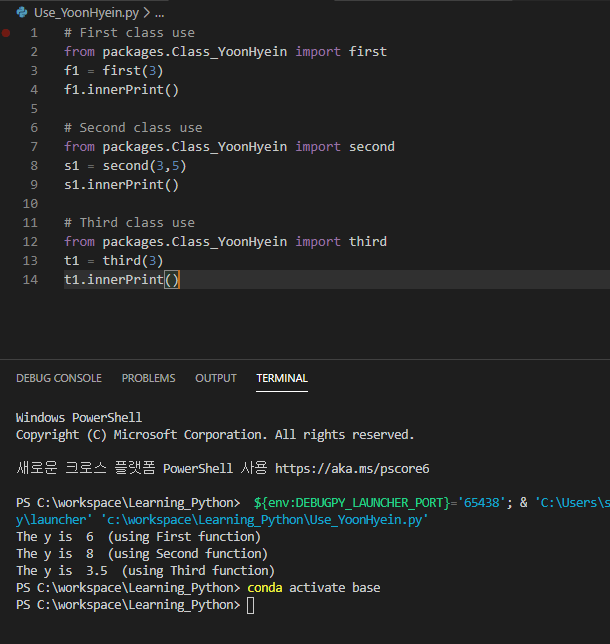
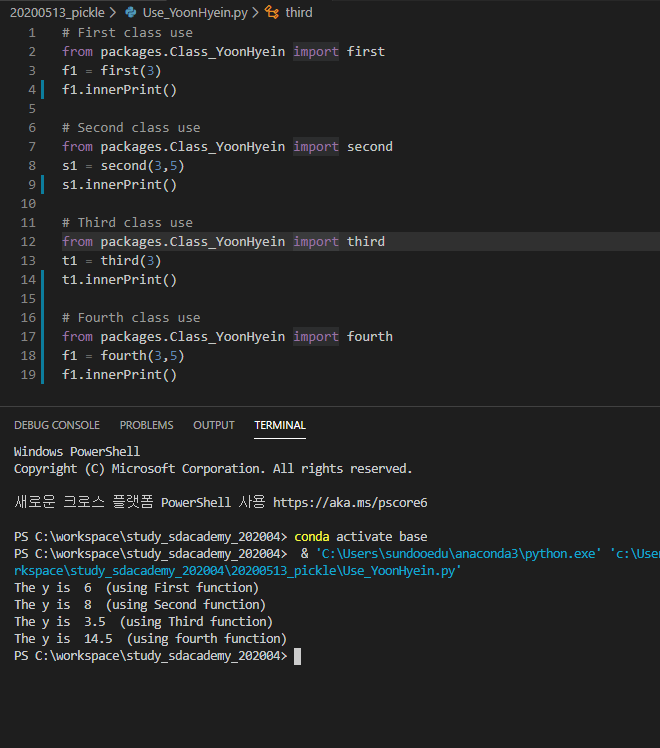
hyein

diff --git a/20200513_pickle/packages/Class_YoonHyein.py b/20200513_pickle/packages/Class_YoonHyein.py
@@ -22,10 +22,13 @@ class third:
     def innerPrint(self):
         print("The y is ", self.y, " (using Third function)")
 
-# class fourth:
-#     def __init__(self, x1=0, x2=2):
-#         self.y = 
-#     def getPredict(self):
-#         print(self.y)
-#     def innerPrint(self):
-#         print("The y is ", self.y, " (using fourth function)")
+class fourth:
+    def __init__(self, x1=0, x2=2):
+        if (x1 < 2):
+            self.y = x2 * 3
+        else:
+            self.y = (x2 * 3) - 0.5
+    def getPredict(self):
+        print(self.y)
+    def innerPrint(self):
+        print("The y is ", self.y, " (using fourth function)")

diff --git a/20200513_pickle/Use_YoonHyein.py b/20200513_pickle/Use_YoonHyein.py
@@ -12,3 +12,8 @@ s1 = second(3,5)
 from packages.Class_YoonHyein import third
 t1 = third(3)
 # t1.innerPrint()
+
+# Fourth class use
+from packages.Class_YoonHyein import fourth
+f1 = fourth(3,5)
+# f1.innerPrint()
